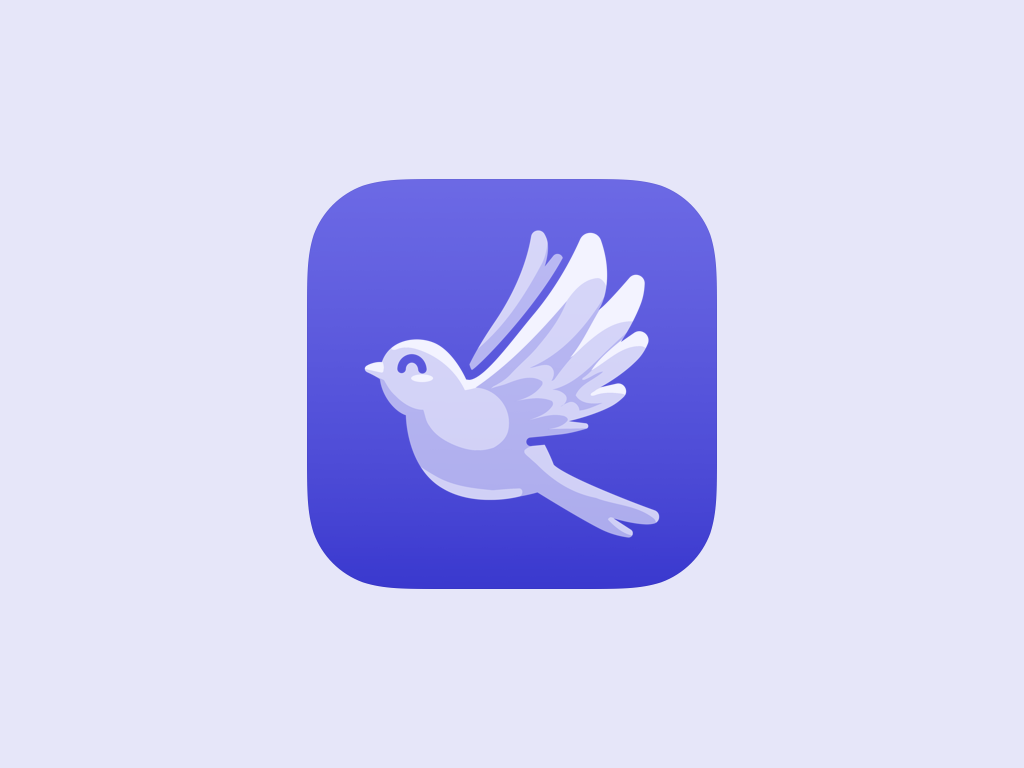
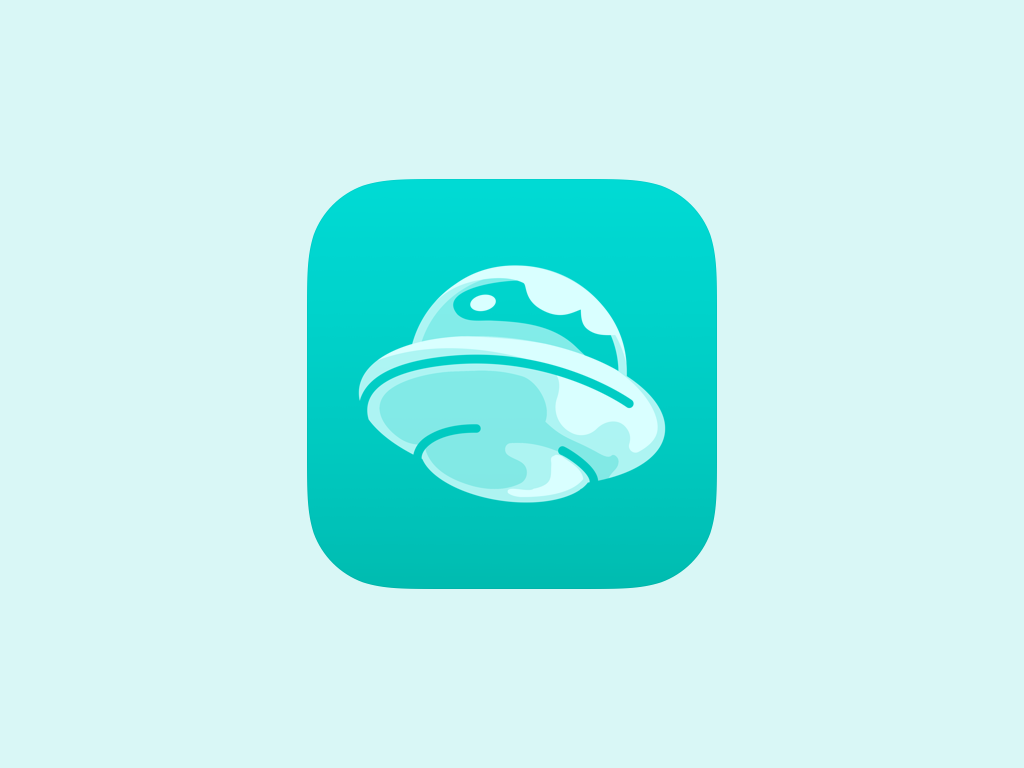
work

Changed region(s): [[0.2812, 0.2188, 0.7188, 0.7812]]

diff --git a/Jaden/SwiftUI/TTT.swiftpm/Package.swift b/Jaden/SwiftUI/TTT.swiftpm/Package.swift
@@ -8,18 +8,18 @@ import PackageDescription
 import AppleProductTypes
 
 let package = Package(
-    name: "My App",
+    name: "TTT",
     platforms: [
         .iOS("15.2")
     ],
     products: [
         .iOSApplication(
-            name: "My App",
+            name: "TTT",
             targets: ["AppModule"],
             displayVersion: "1.0",
             bundleVersion: "1",
-            appIcon: .placeholder(icon: .bird),
-            accentColor: .presetColor(.indigo),
+            appIcon: .placeholder(icon: .rocket),
+            accentColor: .presetColor(.mint),
             supportedDeviceFamilies: [
                 .pad,
                 .phone
